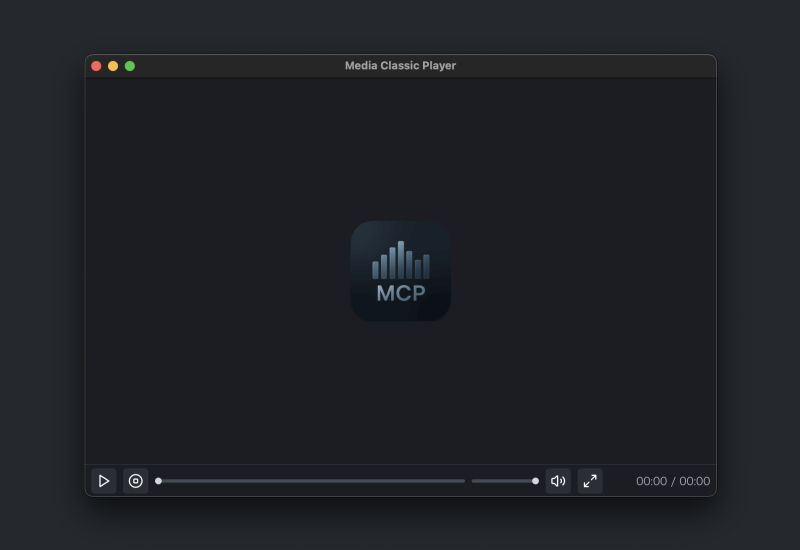
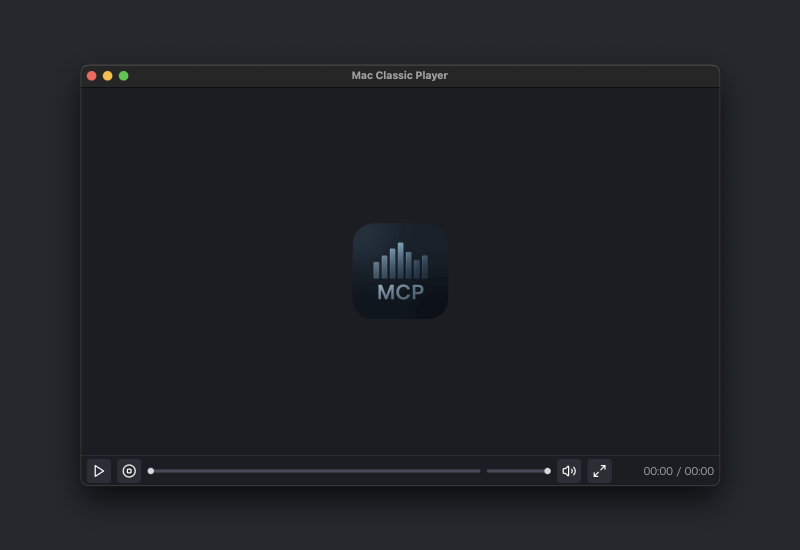
feat: rename app to "mac classic player" and update related text

diff --git a/main/main.ts b/main/main.ts
@@ -113,7 +113,7 @@ app
             },
             label: "ファイルを開く…",
           },
-          { label: "Media Classic Player を終了", role: "quit" },
+          { label: "Mac Classic Player を終了", role: "quit" },
         ],
       },
     ]);

diff --git a/renderer/index.html b/renderer/index.html
@@ -2,7 +2,7 @@
 <html lang="ja">
   <head>
     <meta charset="UTF-8" />
-    <title>Media Classic Player</title>
+    <title>Mac Classic Player</title>
   </head>
   <body>
     <div id="root"></div>
